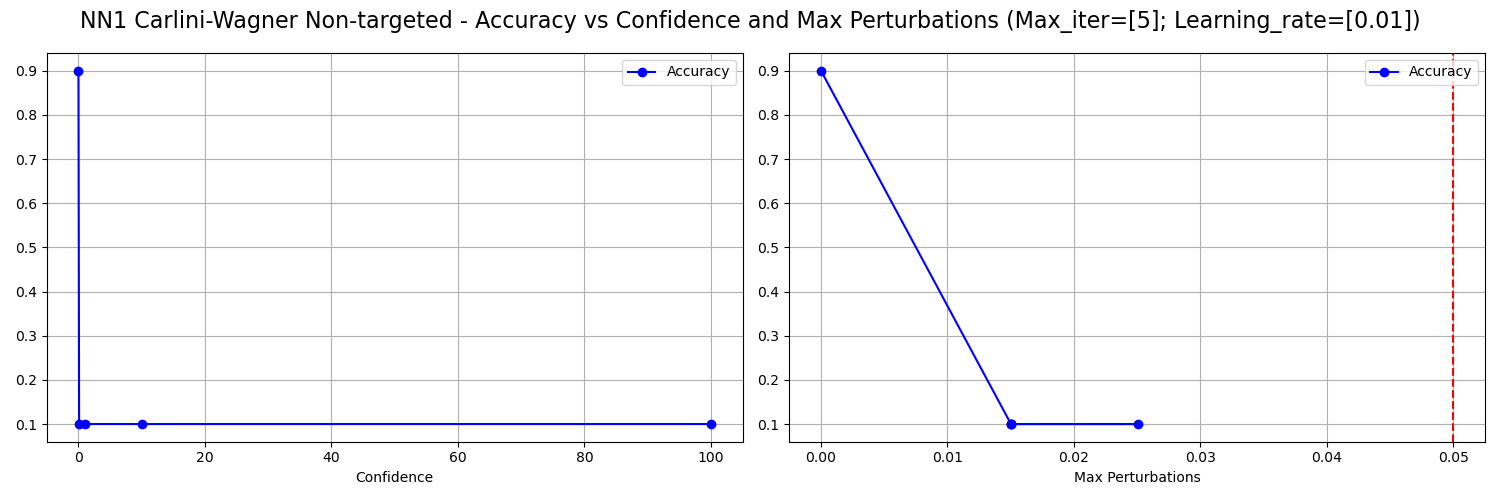
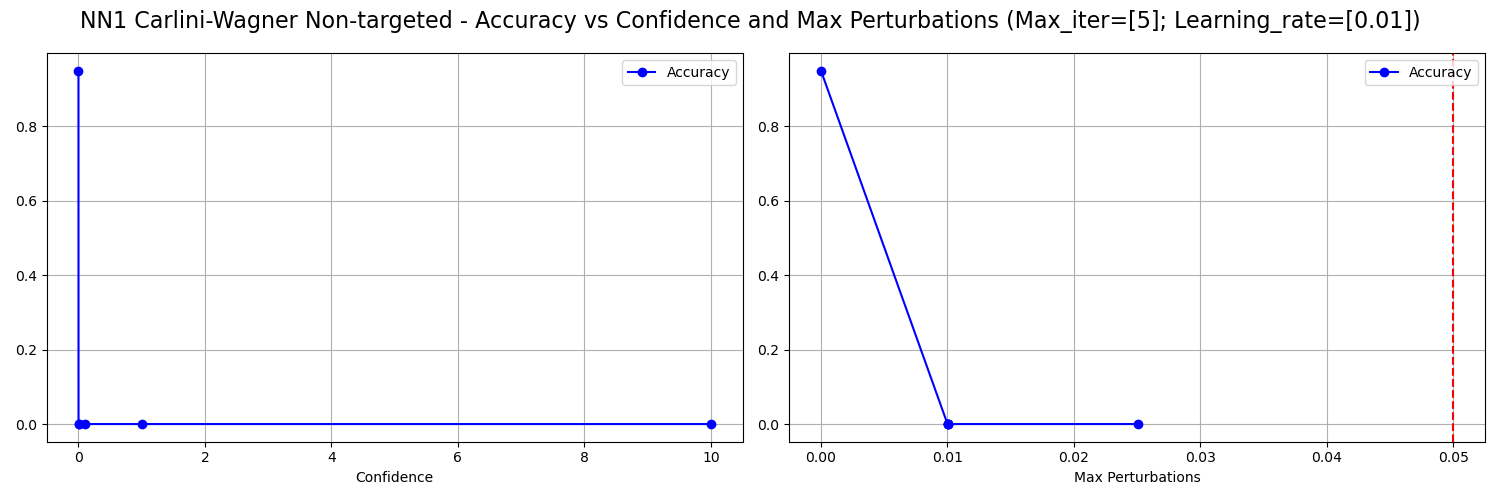
plot cw

diff --git a/generate_adv_example.py b/generate_adv_example.py
@@ -8,7 +8,7 @@ from attacks import FGSM, BIM, PGD, DF, CW
 
 def main():
     parser = argparse.ArgumentParser()
-    parser.add_argument('--generate_train_adv', type=bool, default=True, help='Se True, genera il train adv set; altrimenti genera il test adv set')
+    parser.add_argument('--generate_train_adv', type=bool, default=False, help='Se True, genera il train adv set; altrimenti genera il test adv set')
     parser.add_argument("--targeted", type=bool, default=False, help="Generate targeted attacks")
     parser.add_argument("--verbose", type=bool, default=True, help="Print detailed information during the generation of adversarial examples")
     args = parser.parse_args()
@@ -19,7 +19,7 @@ def main():
 
     # Attacchi selezionati
     attack_types = ["fgsm", "bim", "pgd", "df", "cw"]
-
+    attack_types = ["cw"]
     # Generazione del training set avversario
     if args.generate_train_adv:
         for attack_name in attack_types:
@@ -159,7 +159,7 @@ def main():
                 
                 ## PLOT 2 - max_iter variabile ##
                 confidence_values = [0.1]
-                max_iter_values = [ 1, 3, 5, 7, 10]
+                max_iter_values = [1, 3, 5, 7, 10]
                 learning_rate_values = [0.01]
                 attack.generate_test_adv(test_images, confidence_values, max_iter_values, learning_rate_values, save_dir + "/plot2", args.targeted, target_class, verbose=args.verbose)
 

diff --git a/main.py b/main.py
@@ -11,13 +11,13 @@ NUM_CLASSES = 8631
 
 def main():
     parser = argparse.ArgumentParser(description="Run adversarial attacks on a classifier.")
-    parser.add_argument("--test_classifierNN1", type=bool, default=True, help="If true test on classifierNN1, otherwise test on classifierNN2")
+    parser.add_argument("--test_classifierNN1", type=bool, default=False, help="If true test on classifierNN1, otherwise test on classifierNN2")
     parser.add_argument("--targeted", type=bool, default=False, help="Run a targeted attack")
     args = parser.parse_args()
     
     # Attacchi selezionato
     attacks = ["fgsm", "bim", "pgd", "df", "cw"]
-    attacks = ["df"]
+    attacks = ["cw"]
     print(f"Selected attacks: {attacks}")
     print(f"Targeted attack: {args.targeted}")
     
